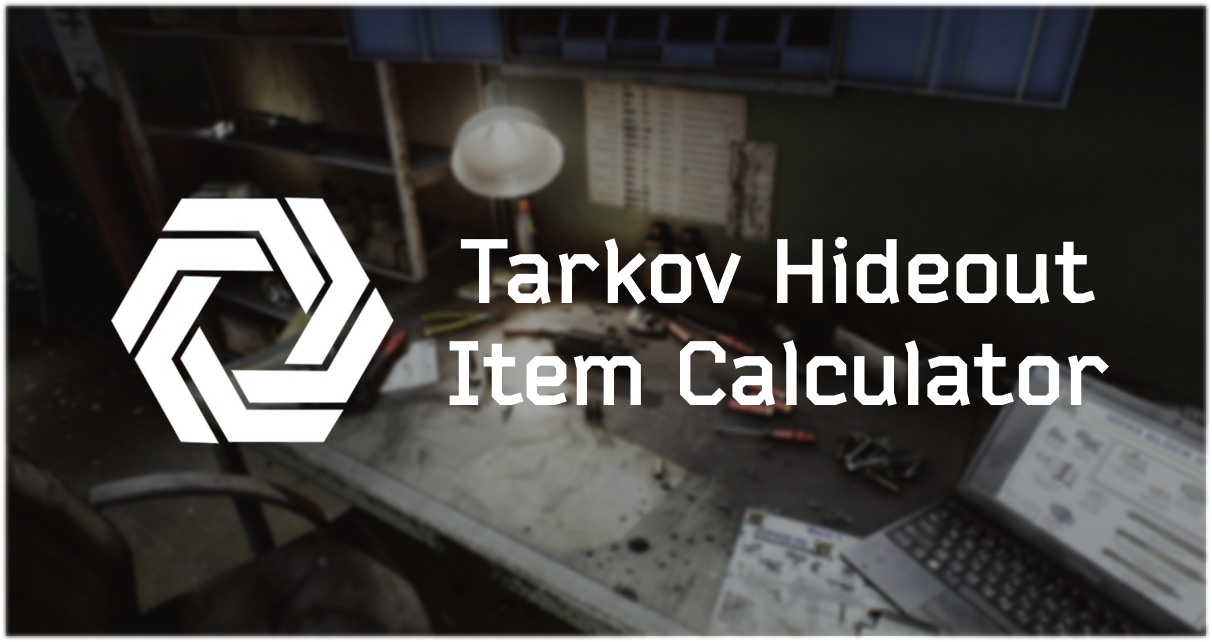
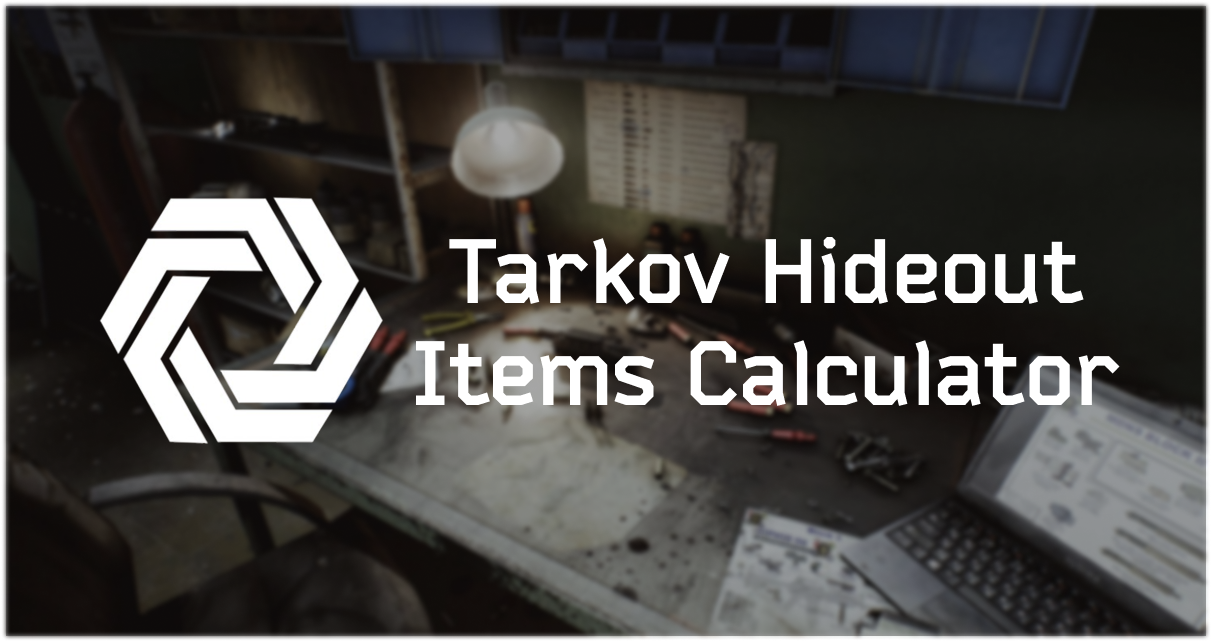
SETUP: Update index to have meta tags

diff --git a/index.html b/index.html
@@ -3,8 +3,40 @@
 	<head>
 		<meta charset="UTF-8" />
 		<meta name="viewport" content="width=device-width, initial-scale=1.0" />
-		<title>Tarkov Hideout Calculator</title>
-		<link rel="icon" type="image/x-icon" href="hideout.png">
+		<link rel="icon" type="image/x-icon" href="hideout.png" />
+		<title>Tarkov Hideout Items Calculator</title>
+		<meta
+			name="description"
+			content="Calculator for Escape from Tarkov hideout that allows you to track your progress and required items."
+		/>
+
+		<!-- Facebook Meta Tags -->
+		<meta property="og:url" content="https://tarkovhideouttracker.netlify.app" />
+		<meta property="og:type" content="website" />
+		<meta property="og:title" content="Tarkov Hideout Items Calculator" />
+		<meta
+			property="og:description"
+			content="Calculator for Escape from Tarkov hideout that allows you to track your progress and required items."
+		/>
+		<meta
+			property="og:image"
+			content="https://raw.githubusercontent.com/KingMacking/tarkov-hideout-tracker/refs/heads/master/src/assets/images/banner.png"
+		/>
+
+		<!-- Twitter Meta Tags -->
+		<meta name="twitter:card" content="summary_large_image" />
+		<meta property="twitter:domain" content="tarkovhideouttracker.netlify.app" />
+		<meta property="twitter:url" content="https://tarkovhideouttracker.netlify.app" />
+		<meta name="twitter:title" content="Tarkov Hideout Calculator" />
+		<meta
+			name="twitter:description"
+			content="Calculator for Escape from Tarkov hideout that allows you to track your progress and required items."
+		/>
+		<meta
+			name="twitter:image"
+			content="https://raw.githubusercontent.com/KingMacking/tarkov-hideout-tracker/refs/heads/master/src/assets/images/banner.png"
+		/>
+
 		<script>
 			if (
 				localStorage.theme === "dark" ||

diff --git a/README.md b/README.md
@@ -4,7 +4,7 @@
     🏠 Calcula los items necesarios para tu hideout en Escape from Tarkov 🏠
 </p>
 <p align='center'>
-    <a href="https://tarkovhideouttracker.netlify.app/"><img height="300" src="https://raw.githubusercontent.com/KingMacking/tarkov-hideout-tracker/refs/heads/master/src/assets/images/hideout_banner.jpg"></a>
+    <a href="https://tarkovhideouttracker.netlify.app/"><img height="300" src="https://raw.githubusercontent.com/KingMacking/tarkov-hideout-tracker/refs/heads/master/src/assets/images/banner.png"></a>
 </p>
 
 ## Sobre el proyecto
